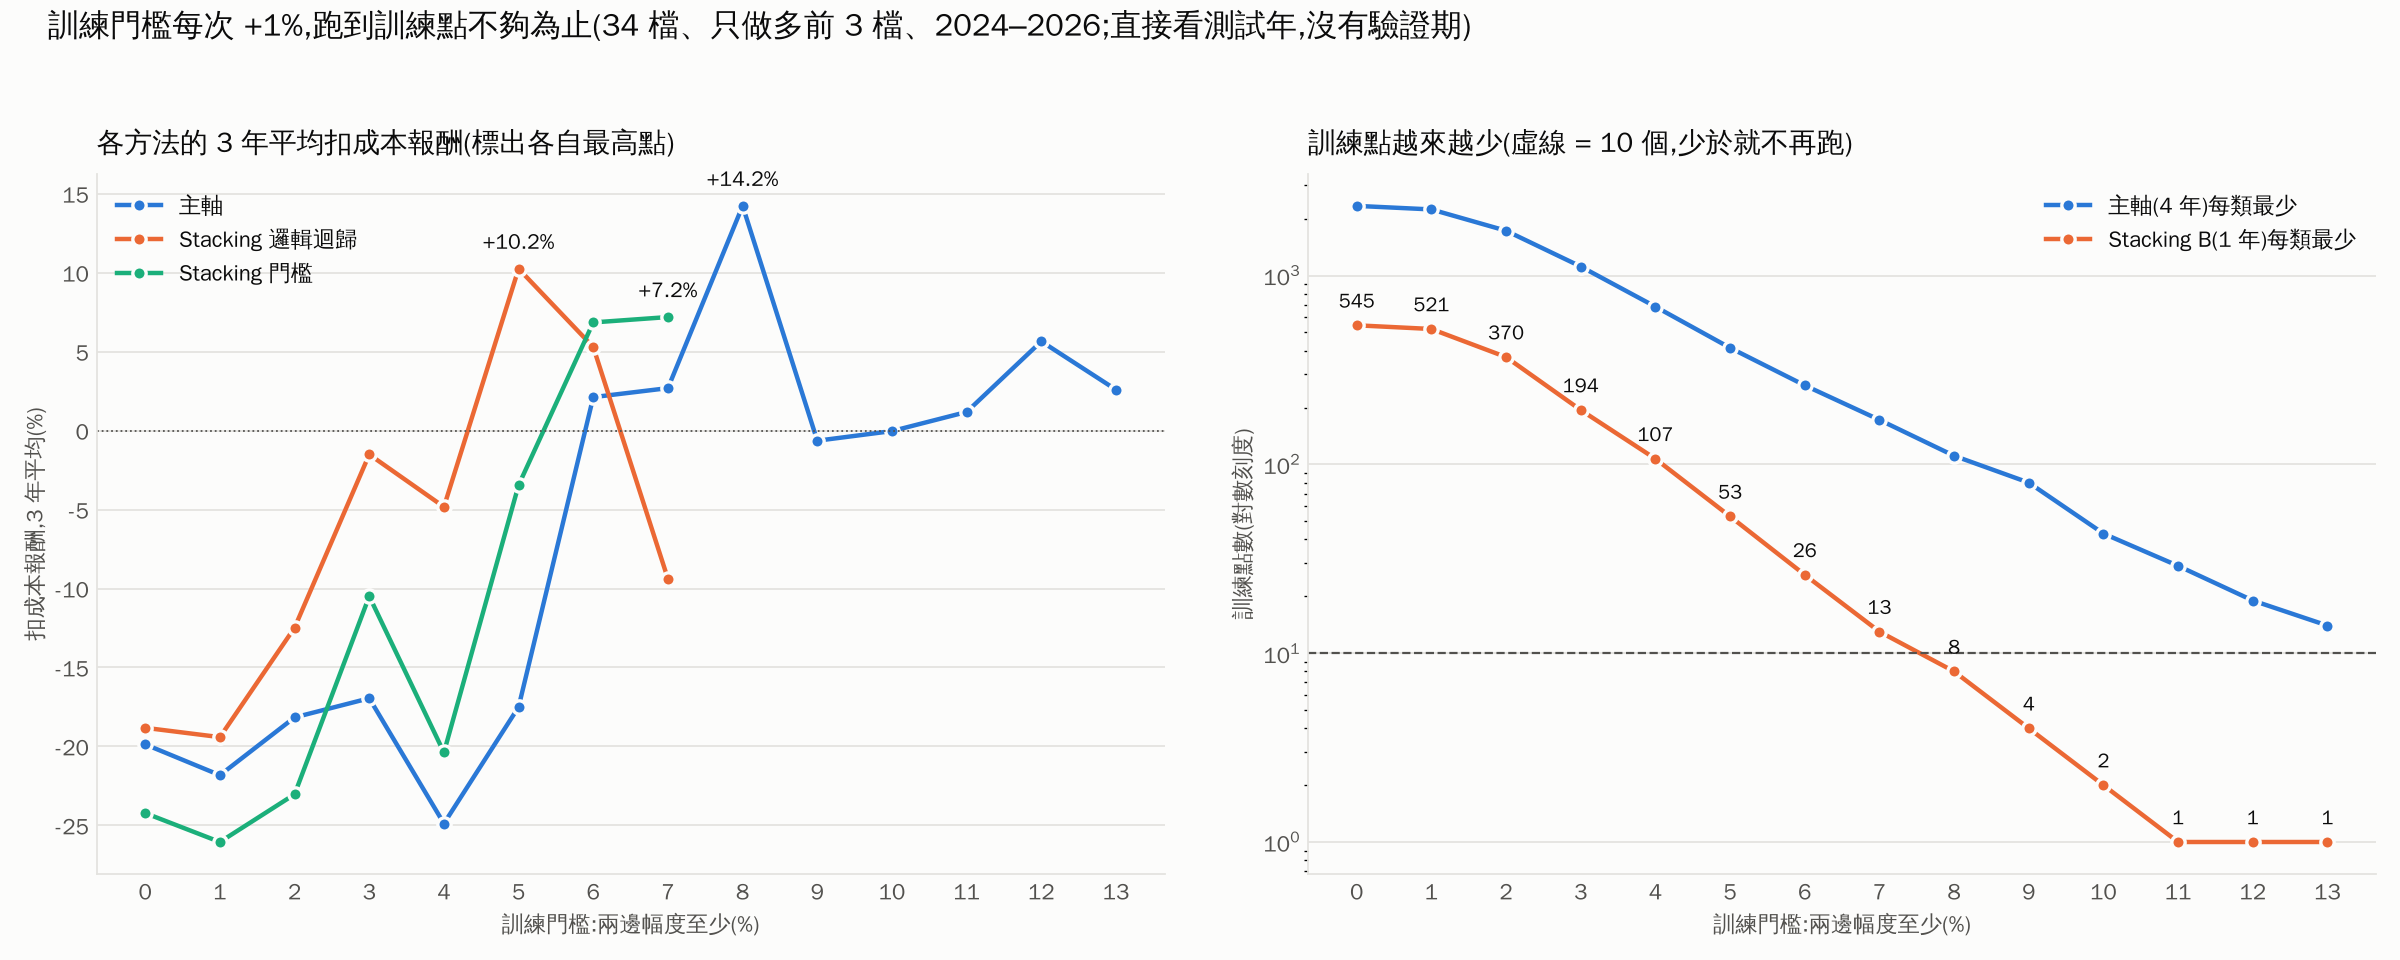
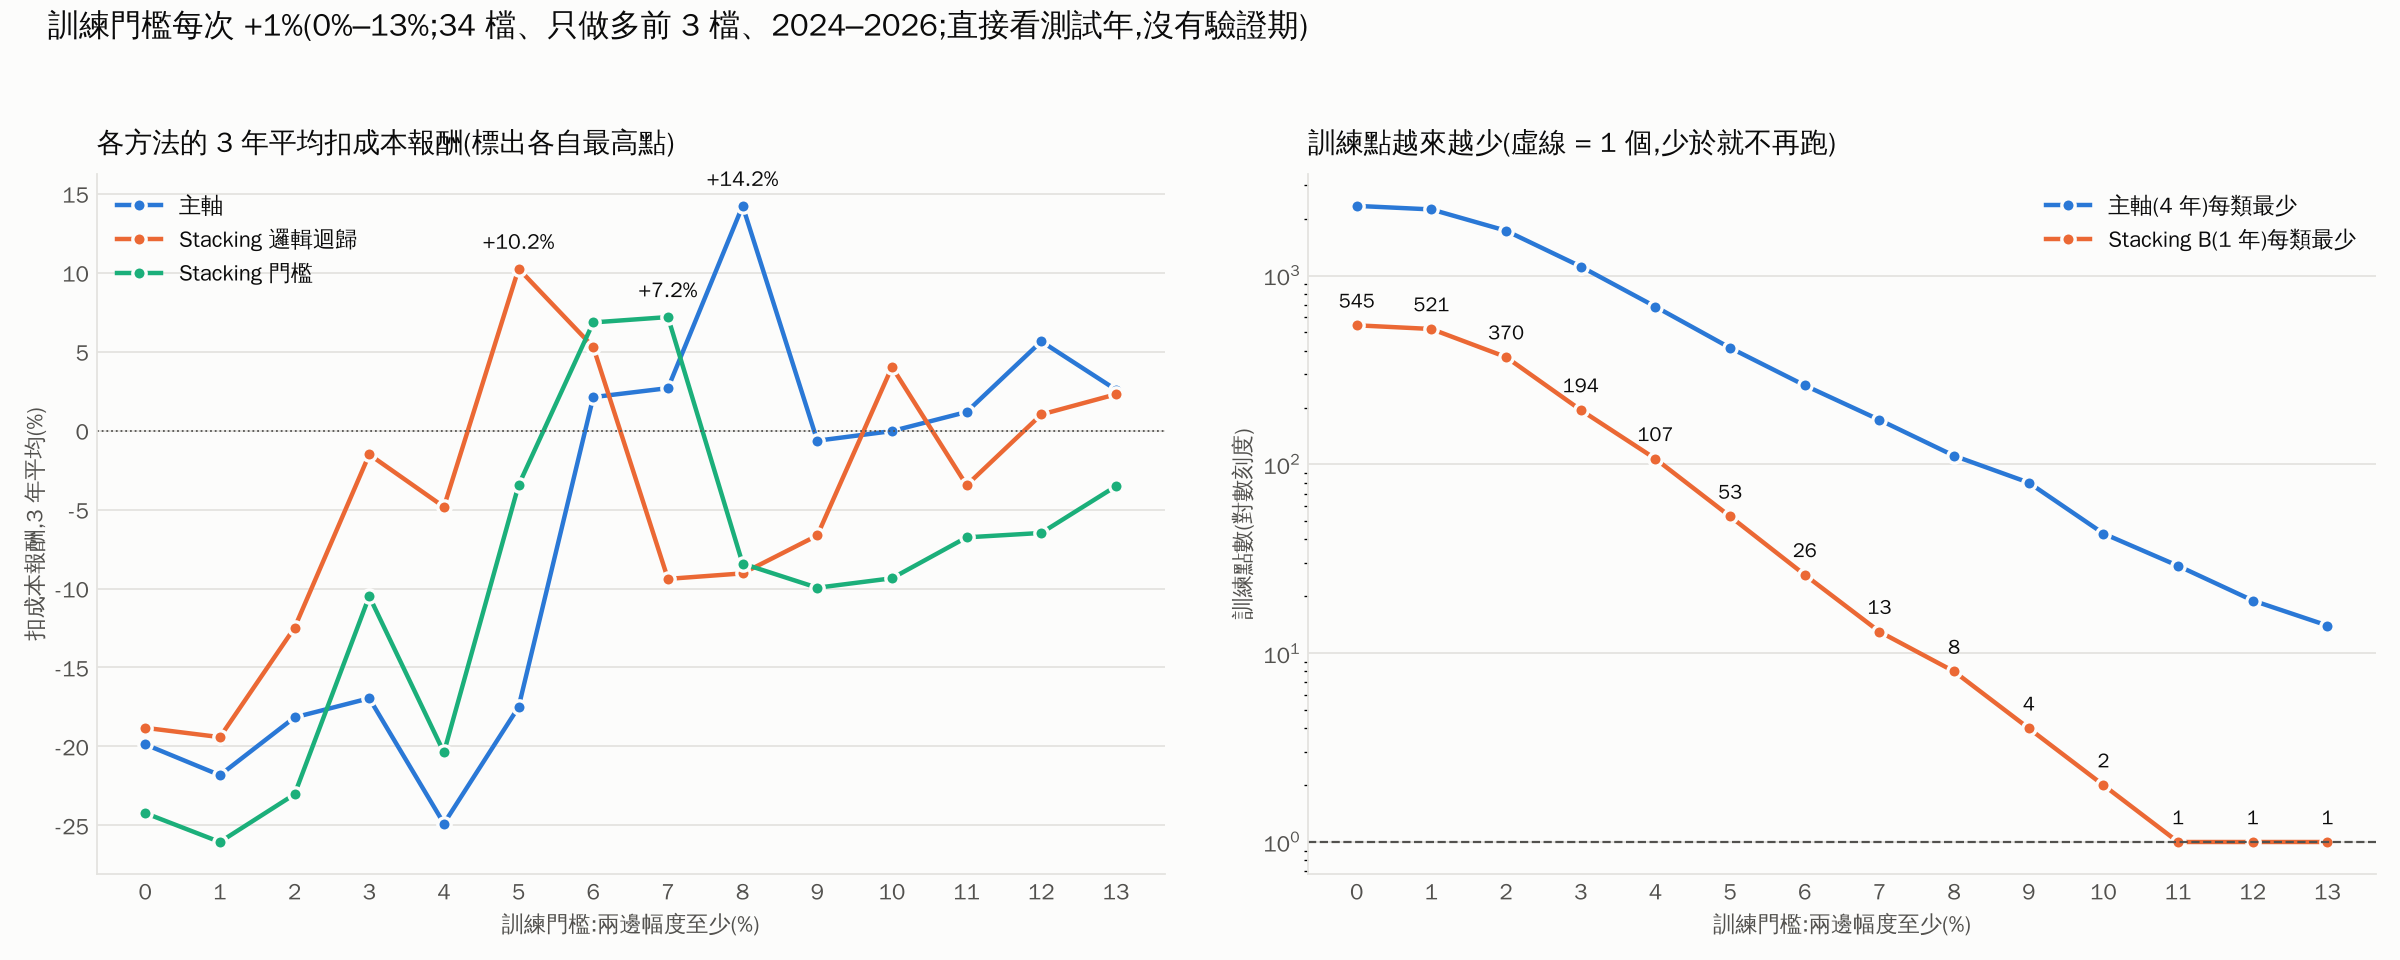
訓練門檻掃描:三個方法都跑到 13%,README 與圖更新
Claude-Session: https://claude.ai/code/session_01RvyJEXgmE4WpkLZabV7Xr1

diff --git a/method_kline_peak/amp_sweep.py b/method_kline_peak/amp_sweep.py
@@ -172,7 +172,8 @@ def grid_figure(curves, out, min_points):
     ax.set_title(f"訓練點越來越少(虛線 = {min_points} 個,少於就不再跑)", loc="left", fontsize=12.5, color=INK, pad=10)
     ax.legend(frameon=False, fontsize=10, labelcolor=INK, loc="upper right")
     ax.set_xticks(xs)
-    fig.suptitle("訓練門檻每次 +1%,跑到訓練點不夠為止(34 檔、只做多前 3 檔、2024–2026;直接看測試年,沒有驗證期)",
+    xs_all = sorted(map(int, curves["主軸"]))
+    fig.suptitle(f"訓練門檻每次 +1%({xs_all[0]}%–{xs_all[-1]}%;34 檔、只做多前 3 檔、2024–2026;直接看測試年,沒有驗證期)",
                  x=0.02, ha="left", fontsize=14, color=INK, y=0.99)
     fig.tight_layout(rect=(0, 0, 1, 0.95), w_pad=3)
     fig.savefig(out, facecolor=SURF)

diff --git a/method_kline_peak/README.md b/method_kline_peak/README.md
@@ -120,22 +120,24 @@ python method_kline_peak/mainline.py --tag z16 --latent 16 --epochs 100 --nu 0.0
 - 7% 的訓練點:主軸每類 172–205 個;Stacking 的 B 每類只有 13–79 個(測 2024 時低點只有 13 個)。
 - 0% / 3% / 5% / 7% 四個門檻都是看測試年比的,沒有用驗證期先選。結果:`results/backtest_long_only_amp7.json`。
 
-門檻每次 +1%(`amp_sweep.py`;34 檔、只做多前 3 檔、2024–2026),扣成本報酬 3 年平均(%):
+門檻每次 +1%(`amp_sweep.py`;34 檔、只做多前 3 檔、2024–2026),扣成本報酬 3 年平均(%),三個方法都跑到 13%
+(`python amp_sweep.py --grid --max 13 --min-points 1`):
 
 | 門檻 | 0 | 1 | 2 | 3 | 4 | 5 | 6 | 7 | 8 | 9 | 10 | 11 | 12 | 13 |
 |---|---|---|---|---|---|---|---|---|---|---|---|---|---|---|
 | ① 主軸 | -19.9 | -21.8 | -18.2 | -17.0 | -24.9 | -17.5 | +2.1 | +2.7 | **+14.2** | -0.6 | -0.0 | +1.2 | +5.7 | +2.6 |
-| ② Stacking 邏輯迴歸 | -18.8 | -19.4 | -12.5 | -1.5 | -4.8 | **+10.3** | +5.3 | -9.4 | | | | | | |
-| ③ Stacking 門檻 | -24.2 | -26.1 | -23.0 | -10.5 | -20.4 | -3.5 | +6.9 | **+7.2** | | | | | | |
-| 9 個平均 | -21.0 | -22.4 | -17.9 | -9.6 | -16.7 | -3.6 | **+4.8** | +0.2 | | | | | | |
+| ② Stacking 邏輯迴歸 | -18.8 | -19.4 | -12.5 | -1.5 | -4.8 | **+10.3** | +5.3 | -9.4 | -9.0 | -6.6 | +4.0 | -3.5 | +1.0 | +2.3 |
+| ③ Stacking 門檻 | -24.2 | -26.1 | -23.0 | -10.5 | -20.4 | -3.5 | +6.9 | **+7.2** | -8.4 | -10.0 | -9.4 | -6.8 | -6.5 | -3.5 |
+| 9 個平均 | -21.0 | -22.4 | -17.9 | -9.6 | -16.7 | -3.6 | **+4.8** | +0.2 | -1.1 | -5.7 | -1.8 | -3.0 | +0.1 | +0.5 |
+| 每年交易(9 個平均) | 123 | 123 | 121 | 118 | 107 | 94 | 73 | 58 | 50 | 41 | 37 | 29 | 27 | 24 |
 | 主軸每類最少訓練點 | 2,338 | 2,239 | 1,727 | 1,116 | 684 | 414 | 262 | 172 | 111 | 80 | 43 | 29 | 19 | 14 |
 | Stacking B 每類最少 | 545 | 521 | 370 | 194 | 107 | 53 | 26 | 13 | 8 | 4 | 2 | 1 | 1 | 1 |
 
-- 照「9 個平均連續 2 個門檻沒超過最好的就停」:最好 6%(+4.8%),7%、8% 沒超過,停在 8%(`python amp_sweep.py`)。
-- 不提早停、跑到訓練點少於 10 個(`python amp_sweep.py --grid`):Stacking B 在 8% 剩 8 個,Stacking 兩個方法跑到 7%;
-  主軸跑到 13%(14% 剩 9 個)。各方法最好:主軸 8%(+14.2%)、Stacking 邏輯迴歸 5%(+10.3%)、Stacking 門檻 7%(+7.2%)。
-- 曲線鋸齒狀(例如主軸 3% → 4% → 5%:-17.0 → -24.9 → -17.5;8% → 9%:+14.2 → -0.6),最好的點像是雜訊,不是穩定的趨勢;
-  主軸 13% 時 3 年只有 10 筆交易。
+- 照「9 個平均連續 2 個門檻沒超過最好的就停」:最好 6%(+4.8%),停在 8%(`python amp_sweep.py`)。
+- 跑到 13%:9 個平均的最好仍是 6%;各方法最好:主軸 8%(+14.2%)、Stacking 邏輯迴歸 5%(+10.3%)、Stacking 門檻 7%(+7.2%)。
+- 8% 以上 Stacking 的 B 每類只有 1–8 個訓練點,邏輯迴歸 / 門檻幾乎是亂猜;3 年仍有 86–162 筆交易。
+  主軸 13% 時 3 年只有 10 筆交易。8% 以上三個方法都是 2024、2025 虧、2026 賺。
+- 曲線鋸齒狀(例如主軸 8% → 9%:+14.2 → -0.6),最好的點像是雜訊,不是穩定的趨勢。
 - 全部是看測試年選的,沒有驗證期。圖:`results/amp_sweep.png`、`results/amp_sweep_grid.png`;數字:`results/amp_sweep.json`、`results/amp_sweep_grid.json`。
 
 ### 只交易模型前 3 檔:三個方法 × 2024–2026(`backtest_top3.py`;2026-11-02 使用者要求)
